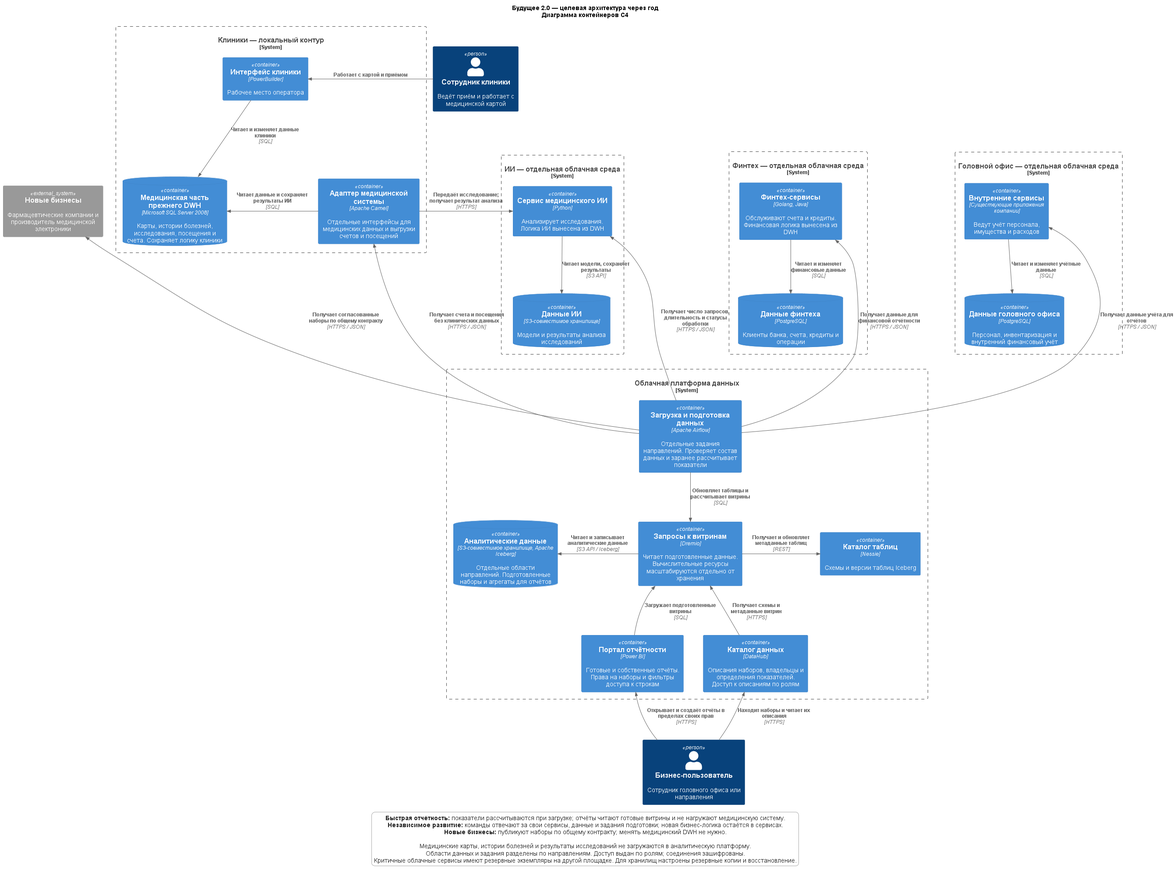
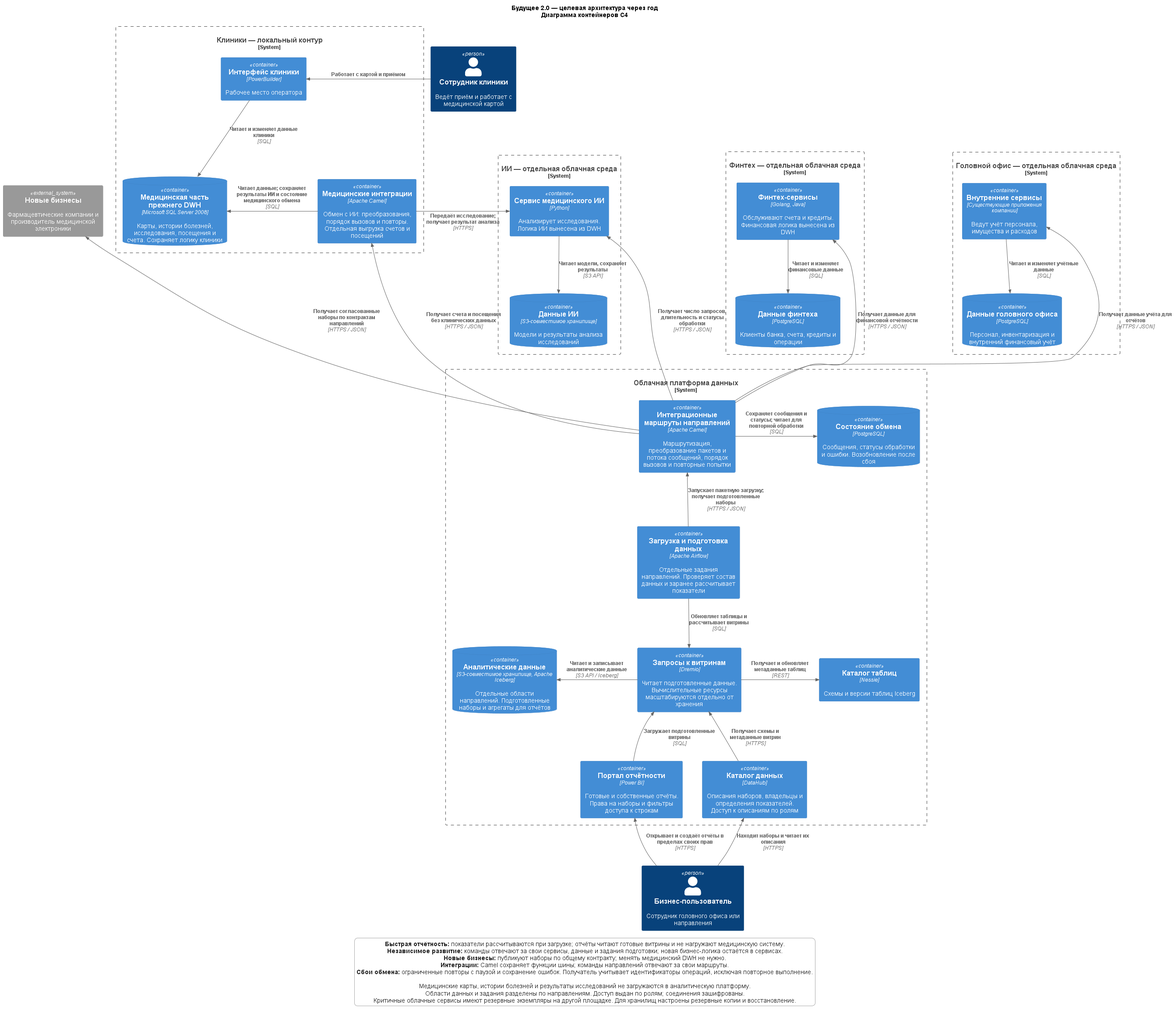
fix: Уточнена архитектура интеграций на Apache Camel
Функции ESB сохранены в целевой архитектуре и распределены между Camel, сервисами направлений и аналитической платформой.

diff --git a/Task3/README.md b/Task3/README.md
@@ -29,7 +29,7 @@
 | № | Технология | Сейчас | Через год: статус и изменение | Бизнес-сценарий |
 | --- | --- | --- | --- | --- |
 | 5 | Power BI | Отчёты с доработками поверх общего хранилища. | **Использовать.** Переключить отчёты на подготовленные витрины через Dremio; открыть создание собственных отчётов с правами на наборы и строки. | Самостоятельно получать отчёт по нужным срезам в пределах своего доступа. |
-| 6 | Apache Camel | Общая интеграционная шина. | **Не применять в новых решениях.** Оставить адаптером медицинской системы: обмен с ИИ и отдельная выгрузка счетов и посещений. | Сохранить обмен клиник с ИИ и передавать разрешённые данные для отчётности. |
+| 6 | Apache Camel | Общая интеграционная шина. | **Использовать.** Разделить маршруты по направлениям. Сохранить маршрутизацию, пакетные и потоковые преобразования, порядок вызовов и обработку сбоев. Медицинские маршруты оставить локально, обмен аналитическими наборами перенести на облачную платформу. | Сохранить обмен клиник с ИИ и подключать направления без доработки медицинского DWH. |
 | 7 | Apache Airflow | Новое. | **Использовать.** Запускать отдельные задания загрузки и подготовки данных направлений. | Обновлять отчётность по расписанию, не связывая все направления одной обработкой. |
 | 8 | Apache Iceberg | Новое. | **Использовать.** Хранить аналитические данные и витрины в табличном формате в объектном хранилище. | Готовить общую отчётность на растущем объёме данных. |
 | 9 | Nessie | Новое. | **Использовать.** Вести каталог метаданных таблиц Iceberg. | Обращаться к нужным таблицам при обновлении витрин и построении отчётов. |
@@ -42,7 +42,7 @@
 | № | Технология | Сейчас | Через год: статус и изменение | Бизнес-сценарий |
 | --- | --- | --- | --- | --- |
 | 13 | Microsoft SQL Server 2008 | Общее корпоративное хранилище данных (DWH) с медицинскими, финансовыми и учётными данными и бизнес-логикой. | **Не применять в новых решениях.** Сохранить медицинскую часть; перенести общую аналитику, данные других направлений и их логику. | Сохранить работу клиник и убрать зависимость новых финансовых и ИИ-сервисов от медицинского хранилища. |
-| 14 | PostgreSQL | Новое. | **Использовать.** Выделить отдельные базы финансовому домену и внутреннему учёту. | Хранить финансовые операции, персонал, имущество и расходы в системах ответственных направлений. |
+| 14 | PostgreSQL | Новое. | **Использовать.** Выделить отдельные базы финансовому домену и внутреннему учёту; на платформе хранить состояние облачных маршрутов Camel в отдельной базе. | Хранить данные в системах ответственных направлений и возобновлять обмен после сбоев. |
 | 15 | S3-совместимое объектное хранилище | Новое. | **Использовать.** Выделить области для аналитических данных и собственное хранилище ИИ для моделей и результатов. | Наращивать объём аналитики; хранить модели и результаты анализа в ИИ-домене. |
 | 16 | Облачная инфраструктура IaaS | Планируется перенос основной части ландшафта в облако. | **Использовать.** Создать отдельные среды финтеха, ИИ, внутреннего учёта и общей платформы; резервировать критичные сервисы на другой площадке. | Масштабировать направления независимо и поддерживать доступность сервисов. |
 
@@ -68,11 +68,12 @@ IaaS (Infrastructure as a Service) — аренда вычислительных
 **Работы:**
 
 - Согласовать архитектуру из задания 1, границы и потоки шести доменов из задания 2. Назначить владельцев данных существующих направлений и ответственных за подключение будущих партнёров.
-- Запланировать проекты: клиники — адаптер и выгрузка счетов и посещений; финтех — перенос логики и финансовых данных; ИИ — перенос логики и публикация показателей работы сервиса; головной офис — собственная база внутреннего учёта; партнёры — публикация согласованных наборов; общая платформа — витрины и портал.
+- Запланировать проекты: клиники — медицинские маршруты Camel и выгрузка счетов и посещений; финтех — перенос логики и финансовых данных; ИИ — перенос логики и публикация показателей работы сервиса; головной офис — собственная база внутреннего учёта; партнёры — публикация согласованных наборов; общая платформа — облачные маршруты Camel, витрины и портал.
+- Разобрать действующие маршруты ESB — интеграционной шины. Для каждого зафиксировать получателей, преобразования пакетов и сообщений, порядок вызовов, бизнес-правила и обработку ошибок. Назначить владельца маршрута и определить, в какой сервис переносится его бизнес-логика.
 - Определить состав наборов, частоту обновления, права, владельцев и общие показатели. Исключить клиническое содержимое из аналитических выгрузок.
 - Замерить время существующих отчётов и нагрузку на хранилище, зафиксировать расходы на текущую инфраструктуру. Согласовать с бизнесом требования к свежести данных, времени отчёта, допустимому перерыву и восстановлению медицинских и финансовых сервисов.
 
-**Результат:** согласованы архитектура, владельцы, контракты данных, проекты направлений и критерии приёмки. Команды знают состав своих работ и зависимости.
+**Результат:** согласованы архитектура, владельцы, контракты данных, распределение функций прежней шины, проекты направлений и критерии приёмки. Команды знают состав своих работ и зависимости.
 
 **Ответственные:** архитектор и владельцы направлений; команды клиник, финтеха, ИИ, внутреннего учёта и платформы; специалисты по информационной безопасности.
 
@@ -86,14 +87,16 @@ IaaS (Infrastructure as a Service) — аренда вычислительных
 
 - Подготовить через Terraform отдельные облачные среды направлений и платформы: сети, виртуальные машины и диски. Настроить защищённую связь с клиниками и права сервисов на свои хранилища.
 - Развернуть объектное хранилище, Iceberg, Nessie, Dremio, Airflow и DataHub; подготовить базы PostgreSQL финтеха и внутреннего учёта, хранилище ИИ. Настроить резервные копии и резервные экземпляры критичных облачных сервисов на другой площадке; проверить восстановление.
-- Провести пилот на счетах и посещениях клиник: адаптер выдаёт только согласованные поля, Airflow проверяет состав, Dremio готовит витрину, DataHub содержит описание, Power BI показывает отчёт.
+- Развернуть на платформе Camel и отдельную базу PostgreSQL для состояния обмена. Настроить сохранение сообщений, тайм-ауты, ограниченные повторы с паузой и повторную обработку ошибок. Состояние медицинских маршрутов сохранять в SQL Server клиник.
+- Провести пилот на счетах и посещениях клиник: медицинский маршрут выдаёт только согласованные поля, облачный маршрут Camel преобразует набор, Airflow проверяет состав, Dremio готовит витрину, DataHub содержит описание, Power BI показывает отчёт.
+- Проверить пакет и последовательность отдельных сообщений, недоступность получателя и перезапуск Camel. Повторить передачу с теми же идентификаторами: незавершённые сообщения должны быть обработаны, повторные операции и записи — исключены.
 - Сверить количество записей и суммы с источником. Проверить доступ к наборам и строкам под разными ролями, исключение клинических полей и нагрузку выгрузки на медицинскую систему.
 
-**Результат:** подготовлены отдельные среды; первый отчёт строится по новой витрине. Проверены загрузка, доступ и восстановление. Пилот даёт замеры для настройки платформы перед подключением остальных доменов.
+**Результат:** подготовлены отдельные среды; первый отчёт строится по новой витрине. Проверены преобразования, повторная обработка после сбоя, отсутствие дубликатов, доступ и восстановление. Пилот даёт замеры для настройки платформы перед подключением остальных доменов.
 
-**Ответственные:** команда платформы и инфраструктурные инженеры; команда клиник отвечает за выгрузку; аналитики отчётности и специалисты по безопасности проверяют данные и права.
+**Ответственные:** команда платформы и инфраструктурные инженеры — облачные маршруты и хранение состояния; команда клиник — медицинские маршруты и выгрузка; аналитики отчётности и специалисты по безопасности проверяют данные и права.
 
-**Ресурсы:** инженеры инфраструктуры и данных, администраторы баз, разработчик медицинского адаптера и аналитик Power BI; тестовая и рабочая облачные среды; виртуальные машины, диски, объектное хранилище, резервная площадка и защищённый канал; доступ Power BI к витрине. Объём пилотных ресурсов выбирается по первому набору и замерам нагрузки.
+**Ресурсы:** инженеры инфраструктуры и данных, администраторы баз, разработчики маршрутов Camel и аналитик Power BI; тестовая и рабочая облачные среды; виртуальные машины, диски, объектное хранилище, резервная площадка и защищённый канал; доступ Power BI к витрине. Объём пилотных ресурсов выбирается по первому набору и замерам нагрузки.
 
 ### 3. Месяцы 5–8: выделить сервисы доменов и провести пилот портала
 
@@ -101,8 +104,8 @@ IaaS (Infrastructure as a Service) — аренда вычислительных
 
 **Работы:**
 
-- Перенести финансовую и ИИ-логику из DWH в существующие сервисы на Go, Java и Python. Перенести финансовые данные в PostgreSQL, модели и результаты ИИ — в хранилище этого домена. Выделить данные персонала, имущества и расходов в базу внутреннего учёта.
-- Подключить наборы финтеха, ИИ и головного офиса к платформе. ИИ публикует только число запросов, длительность и статусы обработки. Для каждого набора создать отдельное задание, область хранения и описание в DataHub.
+- Перенести финансовую и ИИ-логику из DWH и прежних интеграционных маршрутов в существующие сервисы на Go, Java и Python. В Camel сохранить преобразования, порядок вызовов и обработку сбоев. Принимающие сервисы должны сохранять идентификатор операции вместе с результатом и возвращать его при повторном запросе. Перенести финансовые данные в PostgreSQL, модели и результаты ИИ — в хранилище этого домена. Выделить данные персонала, имущества и расходов в базу внутреннего учёта.
+- Подключить наборы финтеха, ИИ и головного офиса к платформе через маршруты Camel. ИИ публикует только число запросов, длительность и статусы обработки. Для каждого набора создать отдельные маршрут и задание, область хранения и описание в DataHub.
 - Подготовить общие витрины, переключить выбранные отчёты Power BI и провести пилот портала с сотрудниками направлений. Проверить построение собственных отчётов и ограничения доступа, включая учётную запись подключения: ей доступны только витрины.
 - Переносить операции и отчёты по очереди. Перед переключением сверять финансовые остатки, операции и отчётные суммы; для ИИ проверять передачу исследования, связь результата со случаем и возврат в клинику. На каждом переключении определить единственный источник записи и порядок отката с учётом новых операций.
 
@@ -119,9 +122,9 @@ IaaS (Infrastructure as a Service) — аренда вычислительных
 **Работы:**
 
 - Подключить к порталу оставшиеся согласованные отчёты и группы пользователей. Проверить права на наборы и строки, подготовить инструкции по поиску данных и созданию отчётов, передать сопровождение командам.
-- Подключить согласованные наборы фармацевтических компаний и производителя электроники: владельцы, контракты, задания загрузки, отдельные области хранения и записи в каталоге. Сохранить бизнес-логику в системах партнёров.
+- Подключить согласованные наборы фармацевтических компаний и производителя электроники: владельцы, контракты, маршруты Camel, задания загрузки, отдельные области хранения и записи в каталоге. Проверить преобразование форматов и повторную обработку при сбоях. Сохранить бизнес-логику в системах партнёров.
 - Проверить время отчётов, свежесть витрин и параллельную работу пользователей при росте объёма данных. По результатам расширить вычислительные ресурсы и хранение; сравнить время отчётов и расходы на инфраструктуру с исходными значениями.
-- Проверить восстановление и переключение критичных облачных сервисов на резервную площадку. Удалить из рабочего расписания старые аналитические задания только после приёмки соответствующих новых отчётов. Освободить ресурсы перенесённых задач, сохранив медицинский SQL Server 2008, PowerBuilder и адаптер Camel.
+- Проверить восстановление и переключение критичных облачных сервисов на резервную площадку, включая Camel и его базу состояния. Отключать прежний маршрут только после проверки всех его функций в новом размещении. Удалить из рабочего расписания старые аналитические задания только после приёмки соответствующих новых отчётов. Освободить ресурсы перенесённых задач, сохранив медицинский SQL Server 2008, PowerBuilder и медицинские маршруты Camel.
 
 **Результат:** портал работает для согласованных ролей; существующие направления и партнёры публикуют свои данные. Команды принимают отчёты по критериям первого этапа. Подтверждены работа под расчётной нагрузкой и восстановление критичных сервисов; медицинская система продолжает обслуживать клиники.
 

diff --git a/Task1/README.md b/Task1/README.md
@@ -8,19 +8,35 @@
 
 Основа решения — Data Mesh: команды направлений отвечают за свои сервисы, данные и правила их подготовки. Общая платформа предоставляет загрузку, хранение, выполнение запросов и каталог данных. Аналитическая часть построена как Data Lakehouse: данные хранятся в объектном хранилище в таблицах Iceberg, а обработка масштабируется отдельно.
 
-1. **Клиники продолжают работать в PowerBuilder.** Медицинская часть прежнего корпоративного хранилища данных (DWH) на SQL Server 2008 сохраняет карты, истории болезней, исследования и логику работы клиники. Apache Camel остаётся адаптером этой системы. Через один интерфейс он передаёт исследования сервису ИИ и сохраняет результат, через другой — выдаёт счета и данные посещений для отчётности. Второй интерфейс отдаёт только согласованный список полей: без карт, диагнозов, историй болезней и результатов исследований.
+1. **Клиники продолжают работать в PowerBuilder.** Медицинская часть прежнего корпоративного хранилища данных (DWH) на SQL Server 2008 сохраняет карты, истории болезней, исследования и логику работы клиники. Медицинские маршруты Apache Camel преобразуют сообщения, передают исследования сервису ИИ и сохраняют результат, связывая его с исходным случаем. Отдельный интерфейс выдаёт счета и данные посещений для отчётности только по согласованному списку полей: без карт, диагнозов, историй болезней и результатов исследований.
 
 2. **Финтех, ИИ и головной офис работают в отдельных облачных средах.** Финансовая и ИИ-логика перенесена из DWH в соответствующие сервисы. Финтех хранит свои операции в PostgreSQL, ИИ — модели и результаты анализа в собственном объектном хранилище. Внутренние сервисы головного офиса используют отдельную базу для персонала, имущества и расходов. Разработка нового финансового или ИИ-сервиса не требует изменения медицинского DWH.
 
-3. **Команды публикуют данные для аналитики через свои интерфейсы.** Для каждого набора определены владелец, состав полей, формат, частота обновления и разрешённые потребители. Apache Airflow запускает отдельные задания направлений, проверяет состав данных и через Dremio обновляет таблицы и рассчитывает витрины. Данные лежат в отдельных областях объектного хранилища; Nessie хранит метаданные таблиц Iceberg. ИИ-направление передаёт только показатели работы сервиса: число запросов, длительность и статусы обработки. Медицинские карты, истории болезней и результаты исследований в аналитическую платформу не загружаются.
+3. **Команды публикуют данные для аналитики через свои интерфейсы.** Для каждого набора определены владелец, состав полей, формат, частота обновления и разрешённые потребители. Облачные маршруты Apache Camel получают данные направлений, проверяют формат и преобразуют пакеты и поступающие сообщения в согласованные наборы. Apache Airflow запускает пакетные загрузки по расписанию, получает наборы через Camel, проверяет их состав и через Dremio обновляет таблицы и рассчитывает витрины. Данные лежат в отдельных областях объектного хранилища; Nessie хранит метаданные таблиц Iceberg. ИИ-направление передаёт только показатели работы сервиса: число запросов, длительность и статусы обработки. Медицинские карты, истории болезней и результаты исследований в аналитическую платформу не загружаются.
 
 4. **Сотрудник строит отчёты в Power BI.** Портал использует подготовленные витрины через Dremio. Показатели рассчитываются при обновлении данных, поэтому построение отчёта не запускает повторную обработку всего DWH. Доступ к наборам и строкам проверяется по ролям, в том числе для собственных отчётов пользователя. Служебная учётная запись загрузки Power BI имеет доступ только к предназначенным для отчётности витринам. DataHub помогает найти набор, прочитать его описание и узнать владельца; сам отчёты не строит. Команды согласуют определения общих показателей, чтобы отчёты разных направлений можно было сопоставлять.
 
-5. **Новый бизнес подключает собственные наборы по тем же правилам.** Для него создаются область хранения, задания загрузки, описание в каталоге и права доступа. Бизнес-правила остаются в его сервисах. Общий медицинский DWH при подключении не меняется.
+5. **Новый бизнес подключает собственные наборы по тем же правилам.** Для него создаются маршрут Camel с преобразованием формата партнёра, область хранения, задания загрузки, описание в каталоге и права доступа. Бизнес-правила остаются в его сервисах. Общий медицинский DWH при подключении не меняется.
+
+### Как сохраняются функции интеграционной шины
+
+ESB (Enterprise Service Bus) — интеграционная шина. Apache Camel сохраняется как средство интеграции. Медицинские маршруты работают локально, маршруты обмена разрешёнными данными направлений и партнёров — на облачной платформе. Команды направлений отвечают за свои маршруты и контракты; команда платформы — за их выполнение и хранение состояния.
+
+| Функция прежней шины | Решение через год |
+| --- | --- |
+| Маршрутизация и преобразование протоколов и форматов | Camel выбирает получателя, вызывает интерфейс нужной системы и приводит данные к контракту направления. |
+| Пакетные и потоковые преобразования | Маршруты Camel обрабатывают пакеты и отдельные сообщения по мере поступления, проверяют поля, разделяют и собирают сообщения. Airflow задаёт расписание аналитических загрузок, Dremio рассчитывает витрины. |
+| Интеграционная логика | Camel задаёт последовательность вызовов, связывает запрос с ответом и передаёт результат следующему участнику. Например, возвращает результат ИИ в клинику с идентификатором случая. |
+| Бизнес-логика | Правила кредитования, анализа исследований и внутреннего учёта выполняются в сервисах направлений. При переносе маршрута его бизнес-правила выносятся в соответствующий сервис. Медицинская логика первого года остаётся в системе клиник. |
+| Надёжность обмена | В маршрутах задаются тайм-ауты и ограниченное число повторов с паузой. Сообщения и состояние обработки сохраняются до подтверждения получателя; после исчерпания попыток сохраняются ошибка и данные для повторной обработки. |
+
+Для облачных маршрутов используется отдельная база PostgreSQL на платформе. Состояние медицинского обмена хранится в SQL Server клиник. После перезапуска маршрут продолжает незавершённую обработку. Повторная доставка возможна: принимающий сервис учитывает идентификатор операции и сохраняет его вместе с результатом, чтобы повторный запрос не выполнял операцию заново. Это правило действует и для загрузок витрин: повтор одного пакета обновляет те же записи по ключам.
+
+Хранилище состояния облачных маршрутов принимает только разрешённые аналитические данные. Медицинские исследования, результаты и ошибки их обработки остаются в медицинском и ИИ-доменах.
 
 Критичные облачные сервисы имеют резервные экземпляры на другой площадке. Для хранилищ предусмотрены резервное копирование и проверка восстановления. Между локальным контуром клиник и облаком используется защищённое соединение; доступ к медицинским исследованиям есть только у клиники и обслуживающего её ИИ-сервиса. Для медицинских и финансовых данных выбираются площадки с учётом требований к их размещению. Контроль прав действует в сервисах и хранилищах, а не только в интерфейсе портала.
 
-PowerBuilder, медицинская часть SQL Server и адаптер Apache Camel остаются на первый год: полная замена клинической системы не нужна для запуска портала и отделения финтеха и ИИ. Power BI сохраняется, но получает данные из новых витрин. Остальная бизнес-логика и соответствующие данные перенесены в сервисы направлений. Это убирает зависимость новых продуктов от общего DWH и сохраняет привычную работу клиник.
+PowerBuilder и медицинская часть SQL Server остаются на первый год: полная замена клинической системы не нужна для запуска портала и отделения финтеха и ИИ. Camel сохраняет интеграционные функции, а его маршруты разделены по направлениям. Power BI получает данные из новых витрин. Остальная бизнес-логика и соответствующие данные перенесены в сервисы направлений. Это убирает зависимость новых продуктов от общего DWH и сохраняет привычную работу клиник.
 
 ## Проблемы и приоритеты
 
@@ -37,6 +53,8 @@ PowerBuilder, медицинская часть SQL Server и адаптер Apa
 | 2 | В DWH сосредоточена бизнес-логика клиник, финтеха и ИИ. | Выпуск новых финансовых и ИИ-сервисов. | Изменение одного направления требует работы с общей системой и замедляет вывод услуг на рынок. | **Must have.** Независимое развитие направлений нужно для запуска новых продуктов и роста выручки. | Перенести логику финтеха и ИИ в их сервисы, выделить им собственные хранилища и облачные среды. |
 | 3 | Операционные медицинские и финансовые данные хранятся вместе с данными для аналитики. | Самостоятельная работа сотрудников с отчётами при ограничении доступа. | Нельзя открывать пользователям общий массив данных: в нём находятся карты, истории болезней и исследования, исключённые из витрины. | **Must have.** Портал должен выдавать только разрешённые данные и учитывать права сотрудника. | Выгружать явно заданные аналитические наборы, исключить клиническое содержимое до загрузки, разделить области хранения и настроить права на наборы и строки. |
 | 4 | Power BI содержит много кастомизаций поверх общего DWH. | Построение собственных отчётов и сравнение показателей направлений. | Развитие отчётности связано с изменениями общего хранилища и существующих доработок. | **Must have.** Пользователь должен создавать отчёты сам, а компания — видеть общие бизнес-показатели. | Подключить Power BI к подготовленным витринам, предоставить конструктор отчётов и описать наборы и общие показатели в DataHub. |
-| 5 | Интеграции направлений проходят через общую старую шину и связаны с DWH. | Подключение фармацевтических компаний и производителя электроники. | Подключение нового бизнеса затрагивает общий слой интеграций и хранилище. Это увеличивает объём согласованных изменений и срок запуска. | **Should have.** Единые контракты сокращают срок подключения партнёров. Первую версию портала можно запустить на данных существующих направлений. | Публиковать наборы через интерфейсы направлений по общему контракту. Camel оставить только адаптером медицинской системы. |
+| 5 | Интеграции направлений проходят через общую старую шину и связаны с DWH. | Подключение фармацевтических компаний и производителя электроники. | Подключение нового бизнеса затрагивает общий слой интеграций и хранилище. Это увеличивает объём согласованных изменений и срок запуска. | **Should have.** Единые контракты сокращают срок подключения партнёров. Первую версию портала можно запустить на данных существующих направлений. | Разделить маршруты Camel по направлениям, сохранить преобразования и обработку сбоев. Бизнес-правила вынести в сервисы; новые наборы подключать по контрактам без доработки медицинского DWH. |
 | 6 | Существующая инфраструктура должна обслуживать сотни терабайт данных и растущее число сценариев. | Рост отчётности и подключение новых направлений. | Нагрузка на общую систему растёт вместе с бизнесом; увеличиваются затраты на поддержку старого оборудования. | **Must have.** Без масштабирования рост компании сохранит проблему медленных отчётов. | Перенести платформу данных и выделенные сервисы в облако, разделить ресурсы хранения и обработки, предусмотреть резервирование и резервные копии. |
 | 7 | PowerBuilder и медицинский DWH сохраняют зависимость клиник от старой системы. | Сопровождение и дальнейшее развитие медицинского направления. | Изменения медицинских процессов по-прежнему требуют доработки старого приложения и хранилища. | **Should have** — изолировать старую систему и снять с неё общую аналитику. Полная замена — **Won't have this time**: она не нужна для достижения целей первого года. | Сохранить рабочее место клиники и медицинскую логику, ограничить связи адаптером, вывести финтех, ИИ и общую отчётность из DWH. |
+
+В категорию Could have задачи не добавлены: все выявленные проблемы связаны с обязательными целями или сопровождением существующей системы.

diff --git a/Task2/README.md b/Task2/README.md
@@ -19,9 +19,11 @@
 
 На диаграмме DFD (Data Flow Diagram) стрелки направлены от источника данных к получателю. Процессы обозначены номерами 1–6, хранилища — Д1–Д6. Отдельные стрелки показывают чтение и запись, а также отправку исследования и возврат результата.
 
-Процессы 1–4 объединяют работу сервисов соответствующего домена. В медицинском домене сохраняются PowerBuilder, медицинская часть прежнего корпоративного хранилища данных (DWH) и адаптер Apache Camel. Д1 — это медицинское хранилище; Д2–Д4 принадлежат своим направлениям. Между доменами нет прямого доступа к чужим хранилищам.
+Процессы 1–4 объединяют работу сервисов соответствующего домена. В медицинском домене сохраняются PowerBuilder, медицинская часть прежнего корпоративного хранилища данных (DWH) и медицинские маршруты Apache Camel. Они преобразуют сообщения для ИИ, связывают запросы с ответами и повторяют передачу при временных сбоях. Д1 — это медицинское хранилище; Д2–Д4 принадлежат своим направлениям. Между доменами нет прямого доступа к чужим хранилищам.
 
-Процесс 5 соответствует загрузке и подготовке данных через Airflow и Dremio из задания 1. Д5 содержит аналитические витрины в отдельных областях направлений. Д6 — каталог DataHub. Процесс 6 объединяет поиск описаний в каталоге и построение отчётов в Power BI по данным витрин. ИИ означает искусственный интеллект.
+Процесс 5 объединяет интеграционные маршруты Camel и подготовку данных через Airflow и Dremio из задания 1. Camel получает наборы, преобразует форматы и сохраняет состояние обмена в отдельной базе PostgreSQL платформы для повторной обработки после сбоев. Airflow задаёт расписание загрузок, Dremio рассчитывает витрины. Д5 содержит аналитические витрины в отдельных областях направлений. Д6 — каталог DataHub. Процесс 6 объединяет поиск описаний в каталоге и построение отчётов в Power BI по данным витрин. ИИ означает искусственный интеллект.
+
+Техническое состояние обмена входит во внутреннюю реализацию процессов 1 и 5; на этой DFD показаны бизнес-данные и потоки между доменами. Его размещение раскрыто на C4-схеме задания 1. Принимающие сервисы учитывают идентификаторы операций, а загрузки витрин — ключи записей, чтобы повторная доставка не создавала дубликаты.
 
 ## Как обеспечены бизнес-сценарии
 
@@ -29,7 +31,7 @@
 
 2. **Подключение нового финтех-сервиса.** Сервис добавляется в финансовом домене, представленном процессом 3. Он использует данные этого домена и сохраняет результаты финансовых операций в Д3. Для отчётности команда публикует набор через интерфейс финансового домена. Процесс 5 загружает его в отдельную аналитическую область и обновляет описание в каталоге. Медицинский DWH в этом пути не участвует.
 
-3. **Подключение фармацевтики и производителя электроники.** Команда партнёра определяет состав набора, владельца, описание полей, определения показателей, частоту обновления и разрешённых потребителей. Для набора создаются задание загрузки, область хранения и запись в каталоге. Обработка внутри партнёрского домена остаётся у партнёра; новая бизнес-логика в медицинский DWH не добавляется.
+3. **Подключение фармацевтики и производителя электроники.** Команда партнёра определяет состав набора, владельца, описание полей, определения показателей, частоту обновления и разрешённых потребителей. Для набора создаются маршрут Camel с преобразованием формата, задание загрузки, область хранения и запись в каталоге. Обработка внутри партнёрского домена остаётся у партнёра; новая бизнес-логика в медицинский DWH не добавляется.
 
 4. **Общая отчётность.** Процесс 5 получает разрешённые наборы направлений, проверяет их состав и рассчитывает показатели. С каждым набором передаются описание, владелец и определения показателей; они попадают в Д6. Подготовленные данные сохраняются в Д5. По запросу сотрудника процесс 6 предоставляет описания доступных наборов и строит отчёт с учётом прав на наборы и строки. Общие определения показателей позволяют сопоставлять данные разных направлений.
 
